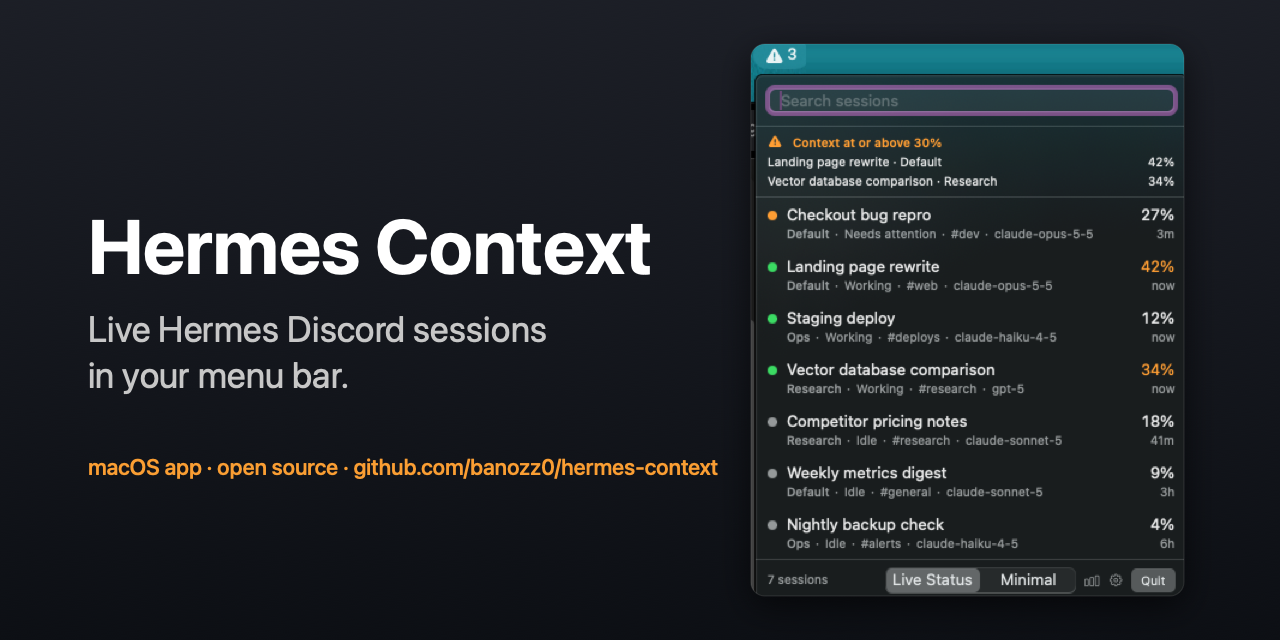
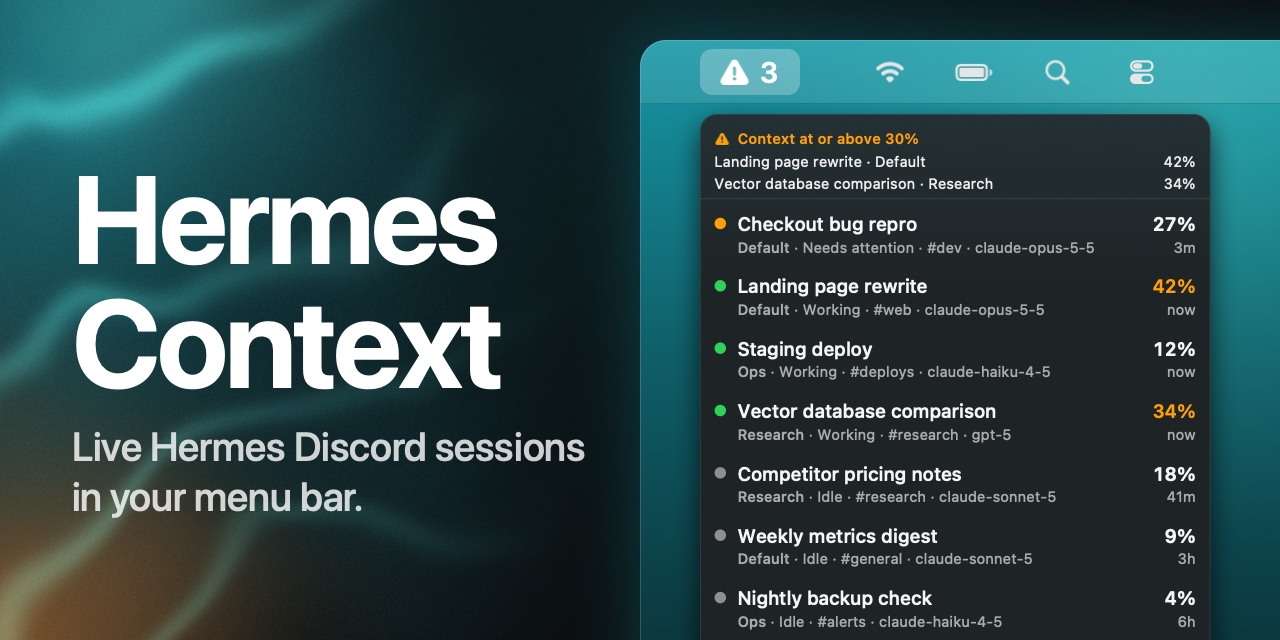
Link preview redesign: designer's menu-bar direction with a seeded aurora behind the name, the popover redrawn in vector so it stays sharp; Sven rejected the first version (agent-bo-95422626)
Claude-Session: https://claude.ai/code/session_01PCejv9N5x9UtCGBRXdZYAw

diff --git a/.github/social-preview.swift b/.github/social-preview.swift
@@ -1,49 +1,220 @@
-// Renders .github/social-preview.png, the 1280x640 GitHub link preview, from .github/screenshot.png.
-// Run from the repo root: swift .github/social-preview.swift
-// GitHub has no API for the preview: upload the PNG in Settings, General, Social preview.
+// Renders .github/social-preview.png (1280x640): run `swift .github/social-preview.swift`, then upload the PNG by hand in GitHub Settings, General, Social preview.
+// The popover is redrawn in vector from the made-up sessions in screenshot.png, so it stays sharp at 1.45x.
 import AppKit
 
-let width = 1280, height = 640
+let W: CGFloat = 1280, H: CGFloat = 640
 let dir = URL(fileURLWithPath: CommandLine.arguments[0]).deletingLastPathComponent()
-guard let shot = NSImage(contentsOf: dir.appendingPathComponent("screenshot.png")),
-      let rep = NSBitmapImageRep(bitmapDataPlanes: nil, pixelsWide: width, pixelsHigh: height, bitsPerSample: 8,
-                                 samplesPerPixel: 3, hasAlpha: false, isPlanar: false, colorSpaceName: .deviceRGB,
-                                 bytesPerRow: 0, bitsPerPixel: 32)
-else { fatalError("social-preview: cannot read screenshot.png") }
 
-NSGraphicsContext.current = NSGraphicsContext(bitmapImageRep: rep)
-NSGraphicsContext.current?.imageInterpolation = .high
-NSGradient(starting: NSColor(srgbRed: 0.11, green: 0.12, blue: 0.15, alpha: 1),
-           ending: NSColor(srgbRed: 0.05, green: 0.06, blue: 0.08, alpha: 1))!
-    .draw(in: NSRect(x: 0, y: 0, width: width, height: height), angle: -90)
-
-func text(_ string: String, size: CGFloat, weight: NSFont.Weight, color: NSColor, y: CGFloat) {
-    NSAttributedString(string: string, attributes: [.font: NSFont.systemFont(ofSize: size, weight: weight),
-                                                    .foregroundColor: color])
-        .draw(at: NSPoint(x: 88, y: y))
+func channels(_ hex: UInt32) -> (r: Double, g: Double, b: Double) {
+    (Double((hex >> 16) & 0xFF) / 255, Double((hex >> 8) & 0xFF) / 255, Double(hex & 0xFF) / 255)
 }
-text("Hermes Context", size: 76, weight: .bold, color: .white, y: 350)
-let dim = NSColor(white: 0.78, alpha: 1)
-text("Live Hermes Discord sessions", size: 36, weight: .regular, color: dim, y: 290)
-text("in your menu bar.", size: 36, weight: .regular, color: dim, y: 244)
-text("macOS app · open source · github.com/banozz0/hermes-context", size: 22, weight: .medium,
-     color: NSColor(srgbRed: 0.98, green: 0.62, blue: 0.2, alpha: 1), y: 160)
+func rgb(_ hex: UInt32) -> NSColor { let c = channels(hex); return NSColor(srgbRed: c.r, green: c.g, blue: c.b, alpha: 1) }
+let orange = rgb(0xFF9F0A), green = rgb(0x30D158), grey = rgb(0x8E8E93), teal = rgb(0x1691A0)
+// Shared by the hero aurora and the screen's wallpaper.
+let tealLight: UInt32 = 0x1797A6, tealDeep: UInt32 = 0x0F5E68, tealGlow: UInt32 = 0x5FE0D2
+let white = NSColor.white
+func white(_ a: CGFloat) -> NSColor { NSColor(white: 1, alpha: a) }
 
-let size = NSSize(width: shot.size.width * 1.2, height: shot.size.height * 1.2)
-let frame = NSRect(origin: NSPoint(x: CGFloat(width) - size.width - 96, y: (CGFloat(height) - size.height) / 2), size: size)
-let card = NSBezierPath(roundedRect: frame, xRadius: 14, yRadius: 14)
+func font(_ size: CGFloat, _ weight: NSFont.Weight = .regular, mono: Bool = false) -> NSFont {
+    mono ? .monospacedDigitSystemFont(ofSize: size, weight: weight) : .systemFont(ofSize: size, weight: weight)
+}
+/// Draws one line on a baseline; returns its width.
+@discardableResult
+func text(_ s: String, _ f: NSFont, _ c: NSColor, x: CGFloat, baseline: CGFloat, kern: CGFloat = 0, right: Bool = false) -> CGFloat {
+    let str = NSAttributedString(string: s, attributes: [.font: f, .foregroundColor: c, .kern: kern])
+    let w = str.size().width
+    str.draw(at: NSPoint(x: right ? x - w : x, y: baseline - f.ascender))
+    return w
+}
+/// An SF Symbol in one colour, centred on `center`.
+func symbol(_ name: String, size: CGFloat, weight: NSFont.Weight, color: NSColor, center: NSPoint) {
+    let base = NSImage(systemSymbolName: name, accessibilityDescription: nil)!
+        .withSymbolConfiguration(.init(pointSize: size, weight: weight))!
+    let tinted = NSImage(size: base.size, flipped: false) { r in
+        base.draw(in: r); color.set(); r.fill(using: .sourceAtop); return true
+    }
+    tinted.draw(in: NSRect(origin: NSPoint(x: center.x - base.size.width / 2, y: center.y - base.size.height / 2), size: base.size),
+                from: .zero, operation: .sourceOver, fraction: 1, respectFlipped: true, hints: nil)
+}
+func rrect(_ r: NSRect, _ radius: CGFloat) -> NSBezierPath { NSBezierPath(roundedRect: r, xRadius: radius, yRadius: radius) }
+func glow(_ c: NSColor, _ center: NSPoint, _ radius: CGFloat, _ a: CGFloat) {
+    NSGradient(colors: [c.withAlphaComponent(a), c.withAlphaComponent(a * 0.45), c.withAlphaComponent(0)],
+               atLocations: [0, 0.45, 1], colorSpace: .sRGB)!
+        .draw(fromCenter: center, radius: 0, toCenter: center, radius: radius, options: [])
+}
+func shadowed(_ color: NSColor, blur: CGFloat, dy: CGFloat, _ body: () -> Void) {
+    NSGraphicsContext.saveGraphicsState()
+    let s = NSShadow(); s.shadowColor = color; s.shadowBlurRadius = blur; s.shadowOffset = NSSize(width: 0, height: -dy)
+    s.set(); body()
+    NSGraphicsContext.restoreGraphicsState()
+}
+func scaled(_ origin: NSPoint, _ s: CGFloat, _ body: () -> Void) {
+    NSGraphicsContext.saveGraphicsState()
+    let t = NSAffineTransform(); t.translateX(by: origin.x, yBy: origin.y); t.scale(by: s); t.concat()
+    body()
+    NSGraphicsContext.restoreGraphicsState()
+}
+
+// The made-up sessions from screenshot.png, in its order. meta is profile, state, channel, model.
+struct Row {
+    let name: String; let meta: [String]; let age: String; let pct: Int
+    var dot: NSColor { ["Needs attention": orange, "Working": green][meta[1]] ?? grey }
+}
+let rows = [
+    Row(name: "Checkout bug repro", meta: ["Default", "Needs attention", "#dev", "claude-opus-5-5"], age: "3m", pct: 27),
+    Row(name: "Landing page rewrite", meta: ["Default", "Working", "#web", "claude-opus-5-5"], age: "now", pct: 42),
+    Row(name: "Staging deploy", meta: ["Ops", "Working", "#deploys", "claude-haiku-4-5"], age: "now", pct: 12),
+    Row(name: "Vector database comparison", meta: ["Research", "Working", "#research", "gpt-5"], age: "now", pct: 34),
+    Row(name: "Competitor pricing notes", meta: ["Research", "Idle", "#research", "claude-sonnet-5"], age: "41m", pct: 18),
+    Row(name: "Weekly metrics digest", meta: ["Default", "Idle", "#general", "claude-sonnet-5"], age: "3h", pct: 9),
+    Row(name: "Nightly backup check", meta: ["Ops", "Idle", "#alerts", "claude-haiku-4-5"], age: "6h", pct: 4),
+]
+let threshold = 30
+
+/// The popover in the app's own 1x point metrics, scaled by `s`, running off the bottom edge.
+func popover(at origin: NSPoint, scale s: CGFloat) {
+    let w: CGFloat = 352, frame = NSRect(x: 0, y: 0, width: w, height: H / s), panel = rgb(0x1E2426)
+    scaled(origin, s) {
+        let shape = rrect(frame, 12)
+        shadowed(NSColor(white: 0, alpha: 0.7), blur: 40 / s, dy: 16 / s) { panel.setFill(); shape.fill() }
+        shape.addClip()
+        NSGradient(starting: rgb(0x243034), ending: panel)!.draw(in: NSRect(x: 0, y: 0, width: w, height: 120), angle: 90)
+        symbol("exclamationmark.triangle.fill", size: 9.5, weight: .semibold, color: orange, center: NSPoint(x: 16, y: 16.5))
+        text("Context at or above \(threshold)%", font(10, .semibold), orange, x: 26, baseline: 20)
+        for (i, r) in rows.filter({ $0.pct >= threshold }).enumerated() {
+            let y = 36 + CGFloat(i) * 15
+            text("\(r.name) · \(r.meta[0])", font(10), white(0.92), x: 10, baseline: y)
+            text("\(r.pct)%", font(10, mono: true), white(0.92), x: w - 10, baseline: y, right: true)
+        }
+        white(0.09).setFill(); NSRect(x: 0, y: 58, width: w, height: 0.75).fill()
+        for (i, r) in rows.enumerated() {
+            let top = 60 + CGFloat(i) * 43
+            r.dot.setFill(); NSBezierPath(ovalIn: NSRect(x: 10, y: top + 11.5, width: 8, height: 8)).fill()
+            text(r.name, font(13, .medium), white(0.96), x: 26, baseline: top + 20)
+            var x: CGFloat = 26
+            for (j, part) in r.meta.enumerated() {
+                if j > 0 { x += text(" · ", font(10), white(0.6), x: x, baseline: top + 35) }
+                x += text(part, font(10, j == 0 ? .medium : .regular), white(0.62), x: x, baseline: top + 35)
+            }
+            text("\(r.pct)%", font(13, .semibold, mono: true), r.pct >= threshold ? orange : white(0.96), x: w - 10, baseline: top + 20, right: true)
+            text(r.age, font(10), white(0.62), x: w - 10, baseline: top + 35, right: true)
+        }
+    }
+    scaled(origin, s) {
+        white(0.14).setStroke(); let edge = rrect(frame.insetBy(dx: 0.25, dy: 0.25), 12); edge.lineWidth = 0.5; edge.stroke()
+    }
+}
+
+// MARK: the hero shader: a seeded aurora behind the title, fading into ink before the screen.
+
+/// Deterministic per-lattice-point noise in 0...1.
+func hash(_ x: Int, _ y: Int, _ seed: UInt32) -> Double {
+    var h = (UInt32(truncatingIfNeeded: x) &* 0x27D4_EB2D) ^ (UInt32(truncatingIfNeeded: y) &* 0x1656_67B1) ^ seed
+    h = (h ^ (h >> 15)) &* 0x2C1B_3C6D
+    h = (h ^ (h >> 12)) &* 0x297A_2D39
+    return Double(h ^ (h >> 15)) / Double(UInt32.max)
+}
+func noise(_ x: Double, _ y: Double) -> Double {
+    let x0 = x.rounded(.down), y0 = y.rounded(.down), i = Int(x0), j = Int(y0), fx = x - x0, fy = y - y0
+    let u = fx * fx * (3 - 2 * fx), v = fy * fy * (3 - 2 * fy)
+    let a = hash(i, j, 7), b = hash(i + 1, j, 7), c = hash(i, j + 1, 7), d = hash(i + 1, j + 1, 7)
+    return a + (b - a) * u + (c - a) * v + (a - b - c + d) * u * v
+}
+func fbm(_ x: Double, _ y: Double) -> Double {
+    var sum = 0.0, amp = 0.5, f = 1.0
+    for _ in 0..<3 { sum += amp * noise(x * f, y * f); f *= 2.03; amp *= 0.5 }
+    return sum / 0.875
+}
+func byte(_ v: Double) -> UInt8 { UInt8(min(max(v * 255, 0), 255).rounded()) }
+func smoothstep(_ a: Double, _ b: Double, _ x: Double) -> Double {
+    let t = min(max((x - a) / (b - a), 0), 1); return t * t * (3 - 2 * t)
+}
+
+/// Writes the background straight into the bitmap: ink, a domain-warped aurora of soft colour blobs
+/// streaked into ribbons, and monochrome film grain. Blob centres and radii are in units of the canvas height.
+/// The aurora fades out over the 280 px before `screenLeft`.
+func aurora(_ rep: NSBitmapImageRep, screenLeft: Double) {
+    let blobs: [(x: Double, y: Double, radius: Double, strength: Double, color: (r: Double, g: Double, b: Double))] = [
+        (0.00, 0.10, 0.55, 0.50, channels(tealLight)),
+        (0.45, 0.55, 0.45, 0.50, channels(tealDeep)),
+        (0.28, -0.05, 0.25, 0.25, channels(tealGlow)),
+        (0.00, 1.10, 0.38, 0.48, channels(0xFF7A1A)),
+    ]
+    let ink = channels(0x0B0C0E), ribbonColor = channels(tealGlow)
+    let fades = (0..<Int(W)).map { 1 - smoothstep(screenLeft - 280, screenLeft - 20, Double($0)) }
+    let data = rep.bitmapData!, rowBytes = rep.bytesPerRow, step = rep.bitsPerPixel / 8
+    for py in 0..<Int(H) {
+        let y = Double(py) / Double(H)
+        // Calmer directly behind the title and tagline (x 72-590, y 176-515), so the copy keeps its contrast.
+        let cy = (y - 0.54) / 0.30
+        for px in 0..<Int(W) {
+            let fade = fades[px]
+            var (r, g, b) = ink
+            if fade > 0 {
+                let x = Double(px) / Double(H), cx = (x - 0.52) / 0.46
+                let light = fade * (1 - 0.6 * exp(-(cx * cx + cy * cy)))
+                let sx = x * 1.4, sy = y * 1.4
+                let wx = x + 0.5 * (fbm(sx + 1.7, sy + 9.2) - 0.5)
+                let wy = y + 0.5 * (fbm(sx + 8.3, sy + 2.8) - 0.5)
+                // Aurora ribbons: thin bright bands running diagonally through the warped field.
+                let ribbon = pow(0.5 + 0.5 * sin((wx + wy * 2.2) * 9 + fbm(wx * 2, wy * 2) * 6), 8)
+                var energy = 0.0
+                for blob in blobs {
+                    let dx = wx - blob.x, dy = wy - blob.y
+                    let k = blob.strength * exp(-(dx * dx + dy * dy) / (blob.radius * blob.radius)) * light
+                    energy += k
+                    r += blob.color.r * k; g += blob.color.g * k; b += blob.color.b * k
+                }
+                let m = min(energy, 0.6)
+                r += ribbonColor.r * ribbon * m * 0.45; g += ribbonColor.g * ribbon * m * 0.45; b += ribbonColor.b * ribbon * m * 0.45
+            }
+            let grain = (hash(px, py, 0xA5A5_1234) - 0.5) * (2 + 5 * fade) / 255
+            let o = py * rowBytes + px * step
+            data[o] = byte(r + grain); data[o + 1] = byte(g + grain); data[o + 2] = byte(b + grain)
+        }
+    }
+}
+
+guard let rep = NSBitmapImageRep(bitmapDataPlanes: nil, pixelsWide: Int(W), pixelsHigh: Int(H), bitsPerSample: 8,
+                                 samplesPerPixel: 3, hasAlpha: false, isPlanar: false, colorSpaceName: .deviceRGB,
+                                 bytesPerRow: 0, bitsPerPixel: 32),
+      let cg = NSGraphicsContext(bitmapImageRep: rep)?.cgContext
+else { fatalError("social-preview: cannot make a bitmap") }
+cg.translateBy(x: 0, y: H); cg.scaleBy(x: 1, y: -1)  // top-left origin, like the app's own layout
+NSGraphicsContext.current = NSGraphicsContext(cgContext: cg, flipped: true)
+
+// The top-left corner of a Mac screen, inside the 40 px safe border, running off the right and bottom edges.
+let screen = NSRect(x: 640, y: 40, width: 760, height: 700), screenShape = rrect(screen, 26)
+aurora(rep, screenLeft: screen.minX)
+glow(teal, screen.origin, 700, 0.16)
+shadowed(NSColor(srgbRed: 0.05, green: 0.55, blue: 0.6, alpha: 0.35), blur: 70, dy: 0) { rgb(0x0B3A40).setFill(); screenShape.fill() }
 NSGraphicsContext.saveGraphicsState()
-let shadow = NSShadow()
-shadow.shadowColor = NSColor(white: 0, alpha: 0.6)
-shadow.shadowBlurRadius = 36
-shadow.shadowOffset = NSSize(width: 0, height: -10)
-shadow.set()
-NSColor.black.setFill()
-card.fill()
-card.addClip()
-shot.draw(in: frame)
+screenShape.addClip()
+NSGradient(colors: [rgb(tealLight), rgb(tealDeep), rgb(0x0A2A30)], atLocations: [0, 0.45, 1], colorSpace: .sRGB)!
+    .draw(in: screen, angle: 90)
+glow(rgb(tealGlow), NSPoint(x: 1180, y: 120), 420, 0.28)
+let bar: CGFloat = 64, mid = screen.minY + bar / 2, itemX: CGFloat = 700
+white(0.10).setFill(); NSRect(x: screen.minX, y: screen.minY, width: screen.width, height: bar).fill()
+NSColor(white: 0, alpha: 0.18).setFill(); NSRect(x: screen.minX, y: screen.minY + bar - 1, width: screen.width, height: 1).fill()
+// The app's menu-bar item, open: the warning triangle and the working count.
+white(0.26).setFill(); rrect(NSRect(x: itemX, y: mid - 23, width: 100, height: 46), 12).fill()
+symbol("exclamationmark.triangle.fill", size: 27, weight: .semibold, color: white, center: NSPoint(x: itemX + 35, y: mid))
+text("\(rows.filter { $0.meta[1] == "Working" }.count)", font(29, .semibold, mono: true), white, x: itemX + 60, baseline: mid + 10.5)
+for (i, name) in ["wifi", "battery.100", "magnifyingglass", "switch.2"].enumerated() {
+    symbol(name, size: 25, weight: .medium, color: white(0.9), center: NSPoint(x: 890 + CGFloat(i) * 84, y: mid))
+}
+popover(at: NSPoint(x: itemX, y: screen.minY + bar + 10), scale: 1.45)
 NSGraphicsContext.restoreGraphicsState()
-NSColor(white: 1, alpha: 0.12).setStroke()
-card.stroke()
+white(0.16).setStroke(); let rim = rrect(screen.insetBy(dx: 0.5, dy: 0.5), 26); rim.lineWidth = 1; rim.stroke()
+
+// Name over tagline; kerning tightens with size.
+let nameFont = font(124, .bold), tagFont = font(40, .medium)
+let nameTop = 176 + nameFont.capHeight, tagTop = nameTop + nameFont.pointSize * 1.3 + tagFont.pointSize * 0.9
+for (i, line) in ["Hermes", "Context"].enumerated() {
+    text(line, nameFont, white, x: 72, baseline: nameTop + CGFloat(i) * nameFont.pointSize, kern: -nameFont.pointSize * 0.025)
+}
+for (i, line) in ["Live Hermes Discord sessions", "in your menu bar."].enumerated() {
+    text(line, tagFont, white(0.8), x: 72, baseline: tagTop + CGFloat(i) * tagFont.pointSize * 1.25, kern: -tagFont.pointSize * 0.01)
+}
 
 try! rep.representation(using: .png, properties: [:])!.write(to: dir.appendingPathComponent("social-preview.png"))
